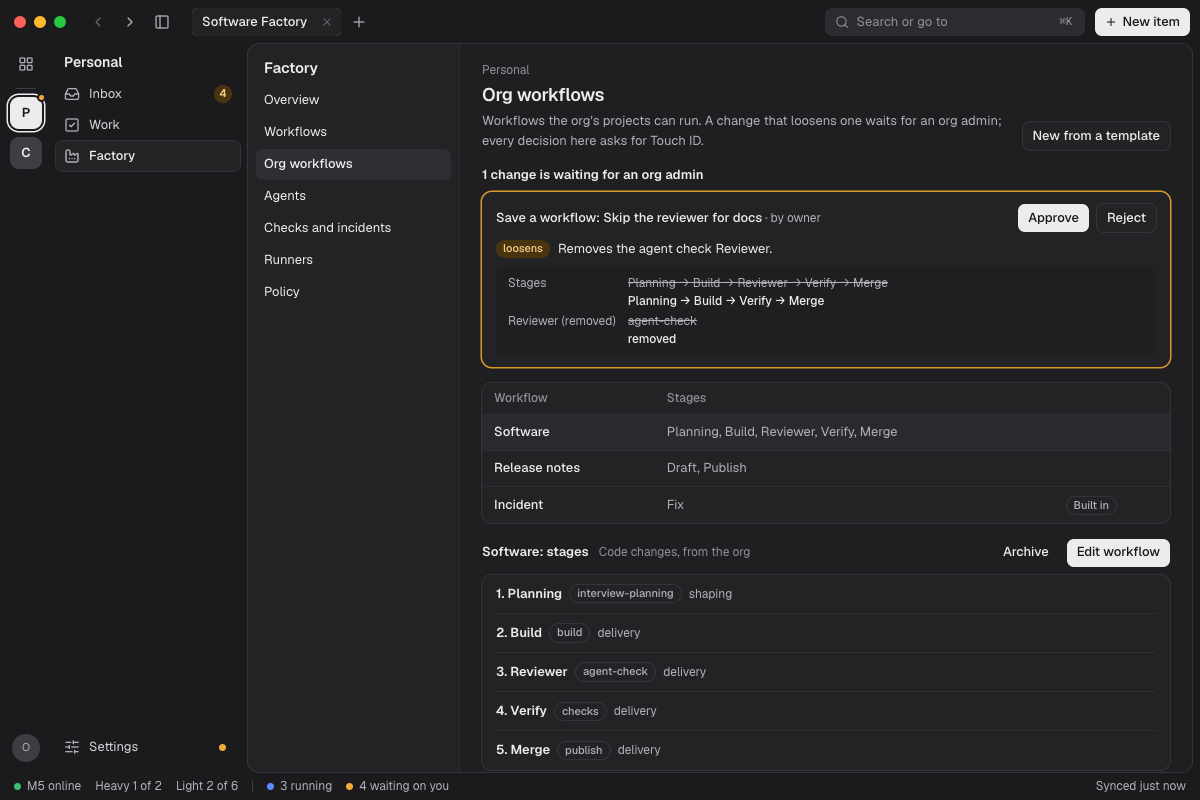
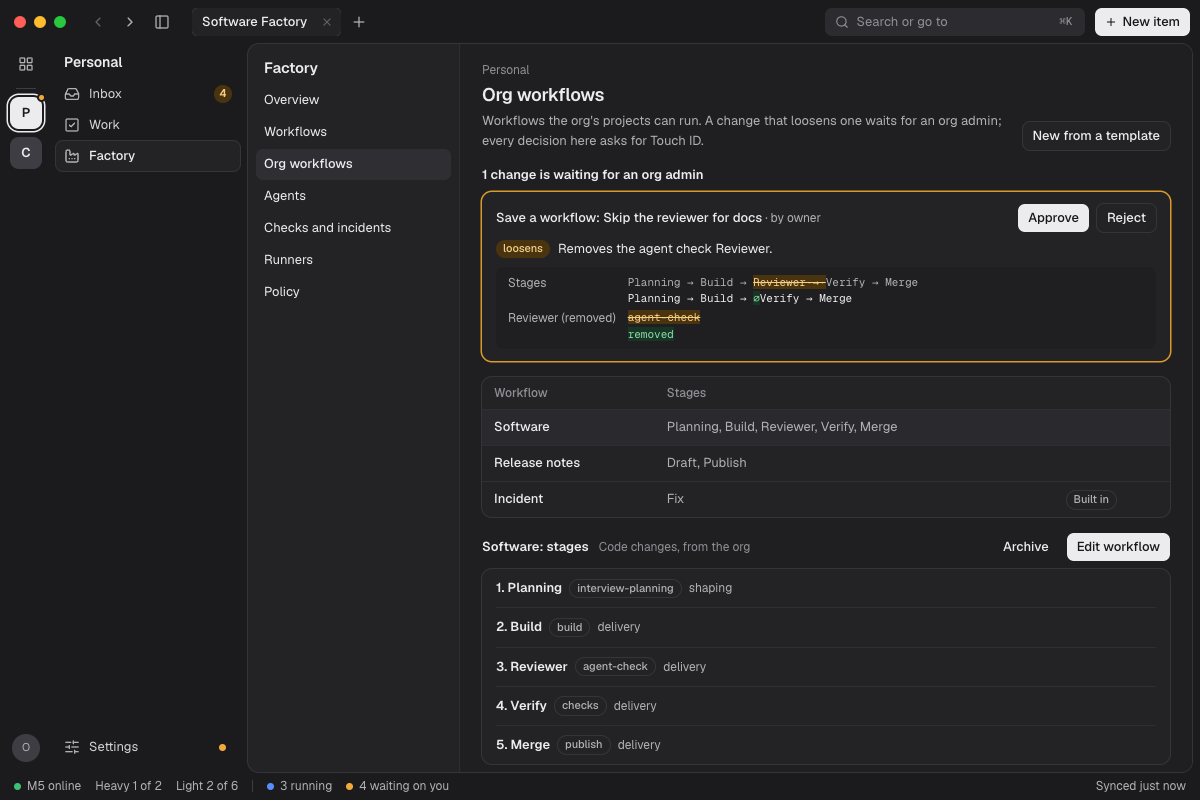
Org workflows: fourth review of #159
- A waiting rollback carries the org's config now and as it would become, and shows the same
  field-by-field difference (every workflow and agent); without it, only Reject.
- Approve fails closed: a change with no base version, or one that shows no difference at all,
  can only be rejected.
- Comparison ignores key order (canonical JSON).
- The difference marks where two values differ, with the shared context shortened and spaces,
  tabs and invisible characters in the changed part shown, so no change is invisible.
- A new agent named like an existing one is refused (it would replace it).

Claude-Session: https://claude.ai/code/session_01DU4xGpN4mnmYyDQybCBhuV

diff --git a/apps/desktop/src/mainview/routes/factory.org.tsx b/apps/desktop/src/mainview/routes/factory.org.tsx
@@ -59,7 +59,13 @@ import {
   stageTypesQuery,
 } from "../lib/factory-queries.ts";
 import { op, read } from "../lib/op.ts";
-import { agentDiff, type DiffRow, unreadable, workflowDiff } from "../lib/org-diff.ts";
+import {
+  agentDiff,
+  type DiffRow,
+  orgConfigDiff,
+  unreadable,
+  workflowDiff,
+} from "../lib/org-diff.ts";
 import { usePolicyDecide } from "../lib/policy-decide.ts";
 import { orgScope } from "../lib/scope.ts";
 import { useSession } from "../lib/session.ts";
@@ -402,18 +408,18 @@ type Pending = OpOutput<"orgConfig.get">["pending"][number];
 
 /** Why a waiting org change can't be approved here, or null (pure; tested). */
 export function cannotApproveOrg(p: Pending, version: number): string | null {
-  if (p.baseVersion !== null && p.baseVersion !== version)
-    return `This was drafted on v${p.baseVersion}; the org's workflows are now v${version}, so it can't apply. Reject it and propose it again.`;
+  // Fail closed: a change that doesn't say which version it was drafted on can't apply here.
+  if (p.baseVersion === null || p.baseVersion !== version)
+    return `This was drafted on ${p.baseVersion === null ? "an unknown version" : `v${p.baseVersion}`}; the org's workflows are now v${version}, so it can't apply. Reject it and propose it again.`;
   if (!p.impact)
     return "The engine couldn't classify this change, so it can't be approved here. Reject it, or look again later.";
-  if (p.operation !== "orgConfig.rollback" && !p.proposal)
-    return "This change can't be shown: what it would save isn't readable. Reject it.";
-  // The engine says it changes something, but no difference can be shown: nothing to approve blind.
+  if (!p.proposal)
+    return "This change can't be shown: what it would make current isn't readable. Reject it.";
   const rows = differenceOf(p);
-  if (p.operation !== "orgConfig.rollback" && unreadable(rows))
+  if (unreadable(rows))
     return "Part of this change can't be shown here (the two sides read the same). Reject it, and look at it again.";
-  if (p.impact.changes.length > 0 && p.operation !== "orgConfig.rollback" && rows.length === 0)
-    return "The engine sees a change here that this screen can't show. Reject it, and look at it again.";
+  // Nothing shown is nothing to approve.
+  if (rows.length === 0) return "This change changes nothing this screen can show. Reject it.";
   return null;
 }
 
@@ -421,6 +427,7 @@ export function cannotApproveOrg(p: Pending, version: number): string | null {
 export function differenceOf(p: Pending): DiffRow[] {
   if (p.operation === "workflow.save") return workflowDiff(p.current, p.proposal);
   if (p.operation === "agent.save") return agentDiff(p.current, p.proposal);
+  if (p.operation === "orgConfig.rollback") return orgConfigDiff(p.current, p.proposal);
   return [];
 }
 
@@ -494,9 +501,14 @@ function PendingOrgChanges({ config }: { config: OpOutput<"orgConfig.get"> }) {
 
 /** What a waiting org change would change, field by field, before and after. */
 function OrgDifference({ change }: { change: Pending }) {
-  if (change.operation === "orgConfig.rollback")
-    return <div className="text-ink-3 text-xs">Back to v{change.toVersion}, as a new version.</div>;
-  return <DiffRows rows={differenceOf(change)} testId="org-pending-diff" />;
+  return (
+    <>
+      {change.operation === "orgConfig.rollback" && (
+        <div className="text-ink-3 text-xs">Back to v{change.toVersion}, as a new version:</div>
+      )}
+      <DiffRows rows={differenceOf(change)} testId="org-pending-diff" />
+    </>
+  );
 }
 
 const ROLES = ["triage", "implement", "review", "summarise"].map((r) => ({ value: r, label: r }));
@@ -516,6 +528,8 @@ function OrgAgents({
   const version = config?.version ?? 0;
   const latest = edit ? latestOf(agents, edit) : null;
   const agentMoved = edit !== null && edit.base !== version;
+  // A new agent named like an existing one would replace it: refused here (review of #159).
+  const nameTaken = edit !== null && edit.original.name === "" && latest !== null;
   const type = (patch: Partial<Agent>) => setEdit((e) => (e ? typeIn(e, patch) : e));
   const { run, pending } = usePolicyDecide();
   const canDecide = useCanDecide();
@@ -605,6 +619,12 @@ function OrgAgents({
             onChange={(e) => type({ instructions: e.target.value })}
           />
           <CharCount value={editing.instructions ?? ""} />
+          {nameTaken && (
+            <div className="text-[13px] text-chip-amber-ink" data-testid="org-agent-name-taken">
+              The org already has an agent called {latest?.name}: saving would replace it. Choose
+              another name, or edit {latest?.name} instead.
+            </div>
+          )}
           {agentMoved && (
             <div className="flex flex-col gap-2 text-[13px]" data-testid="org-agent-moved">
               <span>
@@ -634,7 +654,9 @@ function OrgAgents({
           <div className="flex gap-2">
             <Button
               size="sm"
-              disabled={!editing.name.trim() || pending !== null || !canDecide || agentMoved}
+              disabled={
+                !editing.name.trim() || pending !== null || !canDecide || agentMoved || nameTaken
+              }
               onClick={async () => {
                 const out = await run(
                   "agent.save",

diff --git a/apps/desktop/src/mainview/lib/org-diff.ts b/apps/desktop/src/mainview/lib/org-diff.ts
@@ -19,7 +19,18 @@ const text = (v: unknown): string => {
   if (typeof v === "string") return v || "empty";
   return JSON.stringify(v, null, 1);
 };
-const differ = (a: unknown, b: unknown) => JSON.stringify(a ?? null) !== JSON.stringify(b ?? null);
+/** JSON with object keys sorted: a change of key order alone is not a difference. */
+export function canonical(v: unknown): string {
+  if (Array.isArray(v)) return `[${v.map(canonical).join(",")}]`;
+  if (v && typeof v === "object")
+    return `{${Object.keys(v as Rec)
+      .sort()
+      .filter((k) => (v as Rec)[k] !== undefined)
+      .map((k) => `${JSON.stringify(k)}:${canonical((v as Rec)[k])}`)
+      .join(",")}}`;
+  return JSON.stringify(v ?? null);
+}
+const differ = (a: unknown, b: unknown) => canonical(a) !== canonical(b);
 
 const STAGE_FIELDS = ["name", "type", "typeVersion", "phase", "agent", "when", "settings"] as const;
 
@@ -58,6 +69,85 @@ export function workflowDiff(before: unknown, after: unknown): DiffRow[] {
 }
 
 /** Every field of an agent that differs (whatever fields it has). */
+/**
+ * Every difference between two whole org configs (a rollback): each workflow by id, field by
+ * field, workflows added or removed, and each agent by name (review of #159, round 4).
+ */
+export function orgConfigDiff(before: unknown, after: unknown): DiffRow[] {
+  const b = rec(before);
+  const a = rec(after);
+  const list = (r: Rec | null, k: string) => (Array.isArray(r?.[k]) ? (r[k] as Rec[]) : []);
+  const rows: DiffRow[] = [];
+  const wb = list(b, "workflows");
+  const wa = list(a, "workflows");
+  for (const id of [...new Set([...wb, ...wa].map((w) => String(w.id)))]) {
+    const was = wb.find((w) => String(w.id) === id) ?? null;
+    const now = wa.find((w) => String(w.id) === id) ?? null;
+    const name = text((now ?? was)?.name);
+    if (!was || !now) {
+      rows.push({
+        label: `Workflow ${name}`,
+        was: was ? "present" : "none",
+        now: now ? "added back" : "removed",
+      });
+      continue;
+    }
+    for (const r of workflowDiff(was, now)) rows.push({ ...r, label: `${name}: ${r.label}` });
+  }
+  const ab = list(b, "agents");
+  const aa = list(a, "agents");
+  const key = (x: Rec) => String(x.name).toLowerCase();
+  for (const k of [...new Set([...ab, ...aa].map(key))]) {
+    const was = ab.find((x) => key(x) === k) ?? null;
+    const now = aa.find((x) => key(x) === k) ?? null;
+    const name = text((now ?? was)?.name);
+    if (!was || !now) {
+      rows.push({
+        label: `Agent ${name}`,
+        was: was ? "present" : "none",
+        now: now ? "added back" : "removed",
+      });
+      continue;
+    }
+    for (const r of agentDiff(was, now)) rows.push({ ...r, label: `Agent ${name}: ${r.label}` });
+  }
+  return rows;
+}
+
+/**
+ * The changed region of two texts, with what is invisible made visible: the common start and end
+ * shortened to context, the differing middle marked. Whitespace at the edges, tabs, and format
+ * characters (zero-width, bidi) are shown as markers, so no change is invisible.
+ */
+export function changedRegion(was: string, now: string, context = 40) {
+  let start = 0;
+  while (start < was.length && start < now.length && was[start] === now[start]) start++;
+  let end = 0;
+  while (
+    end < was.length - start &&
+    end < now.length - start &&
+    was[was.length - 1 - end] === now[now.length - 1 - end]
+  )
+    end++;
+  const shown = (s: string) =>
+    s
+      .replace(
+        /\p{Cf}/gu,
+        (c) => `⟨U+${c.codePointAt(0)?.toString(16).toUpperCase().padStart(4, "0")}⟩`,
+      )
+      .replace(/\t/g, "⇥");
+  // In the changed part, spaces too: a space added or removed is a change you can see.
+  const marked = (s: string) => shown(s).replace(/ /g, "·");
+  const pre = was.slice(Math.max(0, start - context), start);
+  return {
+    before: (start > context ? "…" : "") + shown(pre),
+    was: marked(was.slice(start, was.length - end)),
+    now: marked(now.slice(start, now.length - end)),
+    after:
+      shown(was.slice(was.length - end, was.length - end + context)) + (end > context ? "…" : ""),
+  };
+}
+
 /** Rows that render the same text on both sides: the difference isn't shown, so nothing to approve. */
 export const unreadable = (rows: DiffRow[]) => rows.some((r) => r.was === r.now);
 

diff --git a/apps/desktop/test/org-diff.test.ts b/apps/desktop/test/org-diff.test.ts
@@ -82,7 +82,7 @@ describe("a change the screen can't show", () => {
         changes: [{ path: "x", class: "loosens" as const, summary: "Something" }],
       },
     };
-    expect(cannotApproveOrg(p, 4)).toMatch(/can't show/);
+    expect(cannotApproveOrg(p, 4)).toMatch(/changes nothing/);
   });
 });
 
@@ -107,5 +107,51 @@ describe("round 3 of #159", () => {
     ).map((r) => r.label);
     expect(labels).toContain("Reviewer: typeVersion");
     expect(labels).toContain("Workflow template");
+  });
+});
+
+describe("round 4 of #159", () => {
+  it("shows a waiting rollback field by field, across workflows and agents", async () => {
+    const { orgConfigDiff } = await import("../src/mainview/lib/org-diff.ts");
+    const now = {
+      workflows: [{ id: "wf_a", name: "A", stages: [stage()] }],
+      agents: [{ name: "Critic", role: "review", instructions: "Strict." }],
+    };
+    const target = {
+      workflows: [],
+      agents: [{ name: "Critic", role: "review", instructions: "Lenient." }],
+    };
+    const rows = orgConfigDiff(now, target);
+    expect(rows).toContainEqual({ label: "Workflow A", was: "present", now: "removed" });
+    expect(rows).toContainEqual({
+      label: "Agent Critic: instructions",
+      was: "Strict.",
+      now: "Lenient.",
+    });
+  });
+
+  it("doesn't count a change of key order alone", () => {
+    expect(
+      workflowDiff(
+        { stages: [stage({ settings: { a: 1, b: 2 } })] },
+        { stages: [stage({ settings: { b: 2, a: 1 } })] },
+      ),
+    ).toEqual([]);
+  });
+
+  it("makes invisible and trailing-space changes visible, and marks where they differ", async () => {
+    const { changedRegion } = await import("../src/mainview/lib/org-diff.ts");
+    const zw = changedRegion("Pass only green builds.", "Pass only green\u200b builds.");
+    expect(zw.was).toBe("");
+    expect(zw.now).toBe("⟨U+200B⟩");
+    const trailing = changedRegion("Be strict.", "Be strict. ");
+    expect(trailing.now).toBe("·");
+    const long = changedRegion(
+      `${"x".repeat(500)}a${"y".repeat(500)}`,
+      `${"x".repeat(500)}b${"y".repeat(500)}`,
+    );
+    expect(long.was).toBe("a");
+    expect(long.now).toBe("b");
+    expect(long.before.startsWith("…")).toBe(true);
   });
 });

diff --git a/apps/desktop/src/mainview/components/diff-rows.tsx b/apps/desktop/src/mainview/components/diff-rows.tsx
@@ -1,5 +1,5 @@
 // A change's difference as rows (lib/org-diff.ts): a label, what was, what will be.
-import type { DiffRow } from "../lib/org-diff.ts";
+import { changedRegion, type DiffRow } from "../lib/org-diff.ts";
 
 /** Difference rows: a label, what was, what will be. */
 export function DiffRows({ rows, testId }: { rows: DiffRow[]; testId?: string }) {
@@ -13,16 +13,31 @@ export function DiffRows({ rows, testId }: { rows: DiffRow[]; testId?: string })
         // biome-ignore lint/suspicious/noArrayIndexKey: two stages may share a name; rows are a fixed list.
         <div key={i} className="contents">
           <span className="text-ink-3">{r.label}</span>
-          <span className="flex min-w-0 flex-col gap-0.5">
-            <span className="max-h-40 overflow-y-auto whitespace-pre-wrap break-words text-ink-3 line-through">
-              {r.was}
-            </span>
-            <span className="max-h-40 overflow-y-auto whitespace-pre-wrap break-words font-medium">
-              {r.now}
-            </span>
-          </span>
+          <Region was={r.was} now={r.now} />
         </div>
       ))}
     </div>
+  );
+}
+
+/**
+ * Where two values differ: the shared context shortened, the differing part marked on each side,
+ * and spaces, tabs and invisible characters shown, so no change is invisible (review of #159).
+ */
+function Region({ was, now }: { was: string; now: string }) {
+  const r = changedRegion(was, now);
+  return (
+    <span className="flex min-w-0 flex-col gap-0.5 break-words font-mono text-[11px]">
+      <span className="text-ink-3" data-testid="diff-was">
+        {r.before}
+        <mark className="bg-chip-amber text-chip-amber-ink line-through">{r.was || "∅"}</mark>
+        {r.after}
+      </span>
+      <span data-testid="diff-now">
+        {r.before}
+        <mark className="bg-chip-green text-chip-green-ink">{r.now || "∅"}</mark>
+        {r.after}
+      </span>
+    </span>
   );
 }

diff --git a/packages/core/test/org-pending.test.ts b/packages/core/test/org-pending.test.ts
@@ -109,3 +109,37 @@ describe("the rollback preview and agent saves are bound to a version (review of
     expect((stale as { code: string }).code).toBe("conflict");
   });
 });
+
+describe("a waiting rollback (review of #159, round 4)", () => {
+  it("carries the org's config now and as the rollback would make it", async () => {
+    const { w, got } = await orgWithWorkflow();
+    // Tighten (more required checks), then roll back to before: that loosens, so it waits.
+    const tighter = {
+      ...got.workflow,
+      stages: got.workflow.stages.map((s) =>
+        s.type === "checks"
+          ? {
+              ...s,
+              settings: { ...(s.settings as object), requiredChecks: ["ci", "typecheck", "e2e"] },
+            }
+          : s,
+      ),
+    };
+    const saved = await ok<{ version: number }>(
+      "workflow.save",
+      { orgId: w.orgId, baseVersion: got.version, workflow: tighter },
+      w.human,
+    );
+    const r = await call(
+      "orgConfig.rollback",
+      { orgId: w.orgId, baseVersion: saved.version, toVersion: got.version },
+      w.human,
+    );
+    expect(r.status).toBe("pending");
+    const org = await ok<Got>("orgConfig.get", { orgId: w.orgId }, w.human);
+    const p = org.pending.find((x) => x.operation === "orgConfig.rollback");
+    expect(p?.current?.workflows).toBeDefined();
+    expect(p?.proposal?.workflows).toBeDefined();
+    expect(p?.impact?.class).toBe("loosens");
+  });
+});

diff --git a/apps/desktop/test/factory-config-routes.test.tsx b/apps/desktop/test/factory-config-routes.test.tsx
@@ -274,7 +274,7 @@ describe("Org workflows: deciding a waiting change (review of #159)", () => {
       by: null,
       createdAt: "",
       baseVersion: 4,
-      proposal: { id: "wf_x" },
+      proposal: { id: "wf_x", name: "New" },
       current: null,
       toVersion: null,
       impact: { class: "loosens" as const, changes: [] },
@@ -283,5 +283,8 @@ describe("Org workflows: deciding a waiting change (review of #159)", () => {
     expect(cannotApproveOrg(base, 5)).toMatch(/drafted on v4/);
     expect(cannotApproveOrg({ ...base, impact: null }, 4)).toMatch(/couldn't classify/);
     expect(cannotApproveOrg({ ...base, proposal: null }, 4)).toMatch(/can't be shown/);
+    // Fail closed: no base version, or nothing shown, is nothing to approve.
+    expect(cannotApproveOrg({ ...base, baseVersion: null }, 4)).toMatch(/unknown version/);
+    expect(cannotApproveOrg({ ...base, proposal: { id: "wf_x" } }, 4)).toMatch(/changes nothing/);
   });
 });

diff --git a/packages/core/src/operations/workflows.ts b/packages/core/src/operations/workflows.ts
@@ -1043,6 +1043,15 @@ async function pendingOrgChange(
       if (proposal) after = withAgent(config, proposal as never);
     } else if (p.operation === "orgConfig.rollback" && toVersion !== null) {
       after = await storedOrgConfig(db, orgId, toVersion);
+      // The whole org config, now and as the rollback would make it: every workflow and agent
+      // compared field by field before anyone approves it (review of #159, round 4).
+      current = { workflows: config.workflows, agents: config.agents } as unknown as Record<
+        string,
+        unknown
+      >;
+      proposal = after
+        ? ({ workflows: after.workflows, agents: after.agents } as unknown as Record<string, unknown>)
+        : null;
     }
   } catch {
     after = null;
